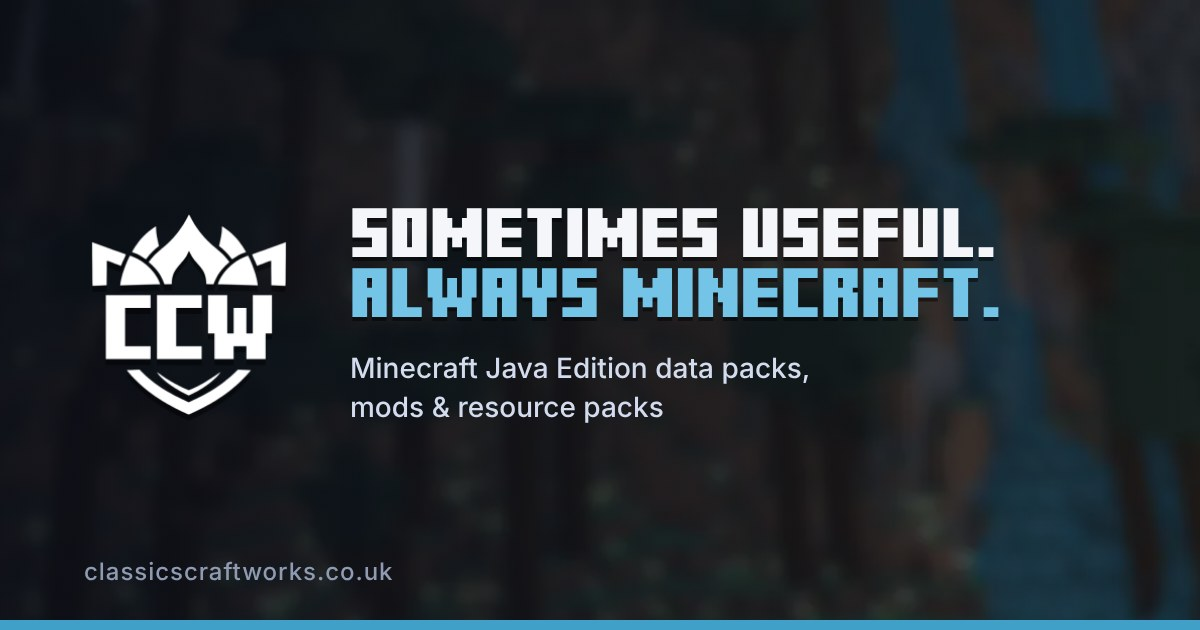
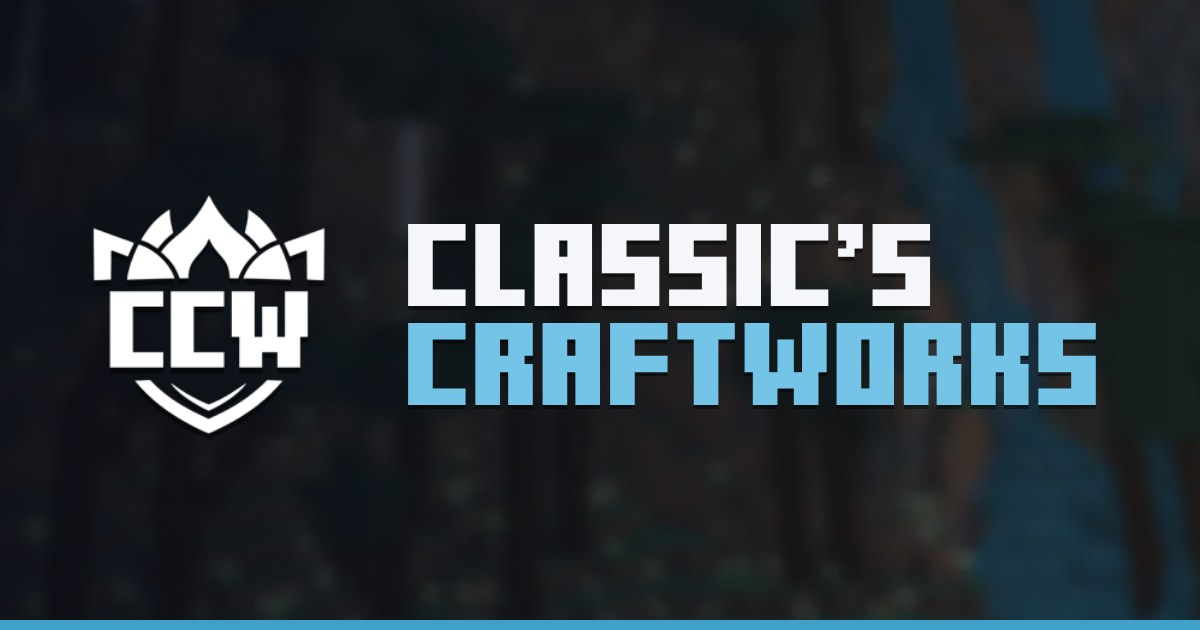
Better link previews that no longer repeat themselves

Changed region(s): [[0.0617, 0.3016, 0.925, 0.6937], [0.0617, 0.8746, 0.3392, 0.9349]]

diff --git a/index.html b/index.html
@@ -17,20 +17,20 @@
 
   <meta property="og:type" content="website" />
   <meta property="og:site_name" content="Classic's Craftworks" />
-  <meta property="og:title" content="Classic's Craftworks - Minecraft Java Data Packs, Mods &amp; Resource Packs" />
-  <meta property="og:description" content="Minecraft Java Edition data packs, mods & resource packs. Sometimes useful. Always Minecraft." />
+  <meta property="og:title" content="Minecraft Java Data Packs, Mods &amp; Resource Packs" />
+  <meta property="og:description" content="Sometimes useful. Always Minecraft." />
   <meta property="og:image" content="https://classicscraftworks.co.uk/images/share.jpg" />
   <meta property="og:image:type" content="image/jpeg" />
   <meta property="og:image:width" content="1200" />
   <meta property="og:image:height" content="630" />
-  <meta property="og:image:alt" content="Classic's Craftworks: Sometimes useful. Always Minecraft." />
+  <meta property="og:image:alt" content="Classic's Craftworks logo" />
   <meta property="og:url" content="https://classicscraftworks.co.uk/" />
 
   <meta name="twitter:card" content="summary_large_image" />
-  <meta name="twitter:title" content="Classic's Craftworks - Minecraft Java Data Packs, Mods &amp; Resource Packs" />
-  <meta name="twitter:description" content="Minecraft Java Edition data packs, mods & resource packs. Sometimes useful. Always Minecraft." />
+  <meta name="twitter:title" content="Minecraft Java Data Packs, Mods &amp; Resource Packs" />
+  <meta name="twitter:description" content="Sometimes useful. Always Minecraft." />
   <meta name="twitter:image" content="https://classicscraftworks.co.uk/images/share.jpg" />
-  <meta name="twitter:image:alt" content="Classic's Craftworks: Sometimes useful. Always Minecraft." />
+  <meta name="twitter:image:alt" content="Classic's Craftworks logo" />
 </head>
 <body>
 

diff --git a/data-packs-mods.html b/data-packs-mods.html
@@ -23,14 +23,14 @@
   <meta property="og:image:type" content="image/jpeg" />
   <meta property="og:image:width" content="1200" />
   <meta property="og:image:height" content="630" />
-  <meta property="og:image:alt" content="Classic's Craftworks: Sometimes useful. Always Minecraft." />
+  <meta property="og:image:alt" content="Classic's Craftworks logo" />
   <meta property="og:url" content="https://classicscraftworks.co.uk/data-packs-mods" />
 
   <meta name="twitter:card" content="summary_large_image" />
   <meta name="twitter:title" content="Data Packs & Mods - Classic's Craftworks" />
   <meta name="twitter:description" content="Minecraft Java Edition data packs & mods from Classic's Craftworks. Sometimes useful. Always Minecraft." />
   <meta name="twitter:image" content="https://classicscraftworks.co.uk/images/share.jpg" />
-  <meta name="twitter:image:alt" content="Classic's Craftworks: Sometimes useful. Always Minecraft." />
+  <meta name="twitter:image:alt" content="Classic's Craftworks logo" />
 </head>
 <body data-page="data-packs-mods">
 

diff --git a/resource-packs.html b/resource-packs.html
@@ -23,14 +23,14 @@
   <meta property="og:image:type" content="image/jpeg" />
   <meta property="og:image:width" content="1200" />
   <meta property="og:image:height" content="630" />
-  <meta property="og:image:alt" content="Classic's Craftworks: Sometimes useful. Always Minecraft." />
+  <meta property="og:image:alt" content="Classic's Craftworks logo" />
   <meta property="og:url" content="https://classicscraftworks.co.uk/resource-packs" />
 
   <meta name="twitter:card" content="summary_large_image" />
   <meta name="twitter:title" content="Resource Packs - Classic's Craftworks" />
   <meta name="twitter:description" content="Minecraft Java Edition resource packs from Classic's Craftworks. Sometimes useful. Always Minecraft." />
   <meta name="twitter:image" content="https://classicscraftworks.co.uk/images/share.jpg" />
-  <meta name="twitter:image:alt" content="Classic's Craftworks: Sometimes useful. Always Minecraft." />
+  <meta name="twitter:image:alt" content="Classic's Craftworks logo" />
 </head>
 <body data-page="resource-packs">
 

diff --git a/other-projects.html b/other-projects.html
@@ -23,14 +23,14 @@
   <meta property="og:image:type" content="image/jpeg" />
   <meta property="og:image:width" content="1200" />
   <meta property="og:image:height" content="630" />
-  <meta property="og:image:alt" content="Classic's Craftworks: Sometimes useful. Always Minecraft." />
+  <meta property="og:image:alt" content="Classic's Craftworks logo" />
   <meta property="og:url" content="https://classicscraftworks.co.uk/other-projects" />
 
   <meta name="twitter:card" content="summary_large_image" />
   <meta name="twitter:title" content="Other Projects - Classic's Craftworks" />
   <meta name="twitter:description" content="Minecraft servers & other projects from Classic's Craftworks. Sometimes useful. Always Minecraft." />
   <meta name="twitter:image" content="https://classicscraftworks.co.uk/images/share.jpg" />
-  <meta name="twitter:image:alt" content="Classic's Craftworks: Sometimes useful. Always Minecraft." />
+  <meta name="twitter:image:alt" content="Classic's Craftworks logo" />
 </head>
 <body data-page="other-projects">
 

diff --git a/about.html b/about.html
@@ -23,14 +23,14 @@
   <meta property="og:image:type" content="image/jpeg" />
   <meta property="og:image:width" content="1200" />
   <meta property="og:image:height" content="630" />
-  <meta property="og:image:alt" content="Classic's Craftworks: Sometimes useful. Always Minecraft." />
+  <meta property="og:image:alt" content="Classic's Craftworks logo" />
   <meta property="og:url" content="https://classicscraftworks.co.uk/about" />
 
   <meta name="twitter:card" content="summary_large_image" />
   <meta name="twitter:title" content="About - Classic's Craftworks" />
   <meta name="twitter:description" content="About Classic's Craftworks: Minecraft Java Edition data packs, mods & resource packs. Sometimes useful. Always Minecraft." />
   <meta name="twitter:image" content="https://classicscraftworks.co.uk/images/share.jpg" />
-  <meta name="twitter:image:alt" content="Classic's Craftworks: Sometimes useful. Always Minecraft." />
+  <meta name="twitter:image:alt" content="Classic's Craftworks logo" />
 </head>
 <body>
 
